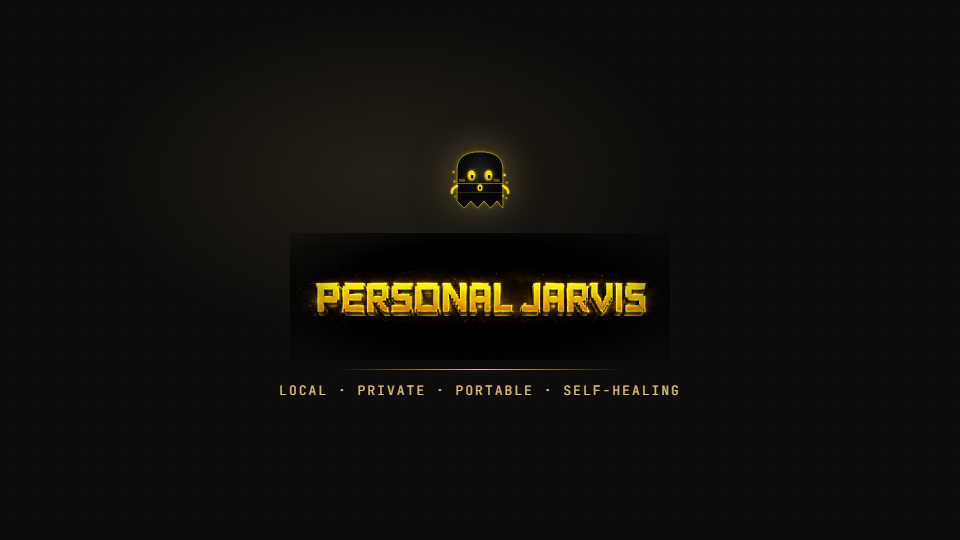
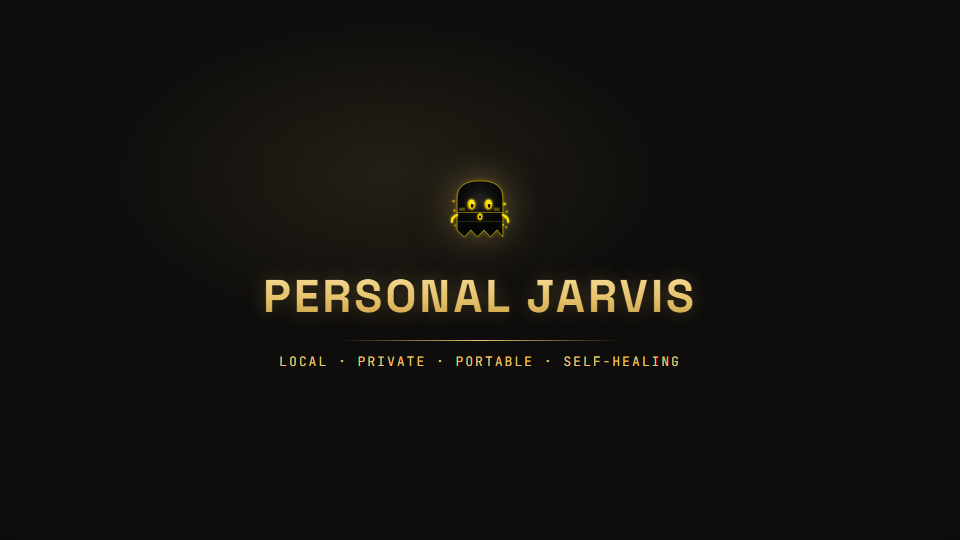
chore: auto-save WIP via Claude stop-hook safety net (2026-07-01 14:08)

diff --git a/wiki-video/src/scenes/S6Outro.tsx b/wiki-video/src/scenes/S6Outro.tsx
@@ -1,6 +1,6 @@
-import { AbsoluteFill, Img, spring, staticFile, useCurrentFrame, useVideoConfig } from "remotion";
+import { AbsoluteFill, spring, useCurrentFrame, useVideoConfig } from "remotion";
 import { Ghost, GoldRule } from "../components/Ghost";
-import { COLORS, EASE, lerp, MONO } from "../theme";
+import { COLORS, DISPLAY, EASE, lerp, MONO } from "../theme";
 
 export const S6Outro: React.FC = () => {
   const frame = useCurrentFrame();
@@ -23,23 +23,27 @@ export const S6Outro: React.FC = () => {
         <Ghost size={168} glow={34} />
       </div>
 
-      {/* real gold wordmark — screen blend drops its black bg onto the charcoal stage */}
-      <Img
-        src={staticFile("wordmark.png")}
+      {/* gold wordmark in the brand display font (Space Grotesk) — crisp, no
+          raster seam, blends cleanly onto the charcoal stage. */}
+      <div
         style={{
-          width: 760,
-          height: "auto",
+          fontFamily: DISPLAY,
+          fontWeight: 700,
+          fontSize: 92,
+          letterSpacing: 6,
+          textTransform: "uppercase",
           opacity: markO,
           transform: `translateY(${markY}px)`,
-          // screen drops the banner's black field onto the charcoal stage; the
-          // radial mask feathers the outer glow box so there is no visible seam.
-          mixBlendMode: "screen",
-          maskImage:
-            "radial-gradient(72% 82% at 50% 50%, #000 52%, transparent 100%)",
-          WebkitMaskImage:
-            "radial-gradient(72% 82% at 50% 50%, #000 52%, transparent 100%)",
+          backgroundImage: `linear-gradient(180deg, #ffe9b0 0%, ${COLORS.gold} 52%, #b98a2e 100%)`,
+          WebkitBackgroundClip: "text",
+          backgroundClip: "text",
+          color: "transparent",
+          textShadow: "0 0 34px rgba(231,196,110,0.28)",
+          filter: "drop-shadow(0 2px 10px rgba(0,0,0,0.5))",
         }}
-      />
+      >
+        Personal Jarvis
+      </div>
 
       <div style={{ marginTop: 18, marginBottom: 22 }}>
         <GoldRule width={ruleW} />

diff --git a/wiki-video/src/components/SceneWrap.tsx b/wiki-video/src/components/SceneWrap.tsx
@@ -15,10 +15,12 @@ export const SceneWrap: React.FC<{
   children: React.ReactNode;
 }> = ({ durationInFrames, fadeIn = 18, fadeOut = 20, pad = true, children }) => {
   const frame = useCurrentFrame();
-  const opacity = Math.min(
-    lerp(frame, [0, fadeIn], [0, 1], EASE.outExpo),
-    lerp(frame, [durationInFrames - fadeOut, durationInFrames], [1, 0], EASE.inCubic),
-  );
+  const inO = lerp(frame, [0, fadeIn], [0, 1], EASE.outExpo);
+  const outO =
+    fadeOut > 0
+      ? lerp(frame, [durationInFrames - fadeOut, durationInFrames], [1, 0], EASE.inCubic)
+      : 1;
+  const opacity = Math.min(inO, outO);
   const y = lerp(frame, [0, fadeIn], [16, 0], EASE.outExpo);
 
   return (

diff --git a/wiki-video/src/WikiVideo.tsx b/wiki-video/src/WikiVideo.tsx
@@ -38,7 +38,11 @@ export const WikiVideo: React.FC = () => {
         const dur = slot.dur + (isLast ? 0 : OVERLAP);
         return (
           <Sequence key={s.key} from={slot.from} durationInFrames={dur}>
-            <SceneWrap durationInFrames={dur} pad={s.pad ?? true}>
+            <SceneWrap
+              durationInFrames={dur}
+              pad={s.pad ?? true}
+              fadeOut={isLast ? 0 : undefined}
+            >
               {s.comp}
             </SceneWrap>
           </Sequence>

diff --git a/jarvis/ui/jarvisbar/overlay.py b/jarvis/ui/jarvisbar/overlay.py
@@ -91,48 +91,6 @@ def _primary_work_area() -> tuple[int, int, int, int] | None:
         return None
 
 
-def _pin_bar_window_unaware() -> None:
-    """Pin the bar's Tk window to per-window DPI-UNAWARE (Windows only).
-
-    The bar must keep the exact size + look it has always had: a small pill that
-    Windows bitmap-UPSCALES to a comfortable physical size on a scaled display.
-    That upscaling only happens for a DPI-UNAWARE window. The recurring bug: the
-    process is made DPI-AWARE — by ``ensure_dpi_awareness`` above and, at runtime,
-    by pywebview's ``SetProcessDPIAware`` inside ``webview.start()`` — and an
-    awareness change strips the upscaling off any window that merely INHERITS the
-    process default. The already-visible bar then snaps to raw pixels (~2/3 size)
-    and jumps position mid-session; only a restart cures it.
-
-    Giving THIS thread an EXPLICIT ``DPI_AWARENESS_CONTEXT_UNAWARE`` before
-    ``tk.Tk()`` bakes that context into the bar window for its lifetime. Because
-    the process is already aware (``ensure_dpi_awareness`` ran first), the
-    window's context genuinely DIFFERS from the process, so the upscaling is
-    pinned: a later process-wide flip can no longer strip it. Verified live — a
-    107x48 window pinned this way sits at 161x72 physical and STAYS 161x72 across
-    ``SetProcessDPIAware``. Geometry and pointer events both stay in the one
-    virtualized space, so dragging stays glued to the cursor. The renderer is not
-    touched: the bar looks identical, it just stops shrinking.
-
-    No-op off Windows, under pytest (never mutate the test runner's thread), and
-    on any Windows without the per-thread API; never blocks the bar on failure.
-    """
-    if sys.platform != "win32":
-        return
-    if "pytest" in sys.modules:  # don't mutate the test runner thread's DPI context
-        return
-    try:
-        import ctypes
-        from ctypes import wintypes
-
-        user32 = ctypes.windll.user32
-        user32.SetThreadDpiAwarenessContext.restype = wintypes.HANDLE
-        user32.SetThreadDpiAwarenessContext.argtypes = [wintypes.HANDLE]
-        # DPI_AWARENESS_CONTEXT_UNAWARE is the sentinel handle value ((HANDLE)-1).
-        user32.SetThreadDpiAwarenessContext(wintypes.HANDLE(-1))
-    except Exception:  # noqa: BLE001 — never block the bar on a DPI hiccup
-        log.debug("jarvisbar DPI unaware-pin skipped", exc_info=True)
-
-
 class JarvisBarOverlay:
     def __init__(
         self,
@@ -277,30 +235,22 @@ class JarvisBarOverlay:
 
         from PIL import ImageTk  # noqa: F401 — fail fast here if Pillow missing
 
-        # DPI handling — two steps that TOGETHER keep the bar at its normal size
-        # and stop it shrinking/jumping mid-session, WITHOUT changing how it looks:
-        #
-        # 1. Make the PROCESS DPI-aware. The bar boots in its own thread, often
-        #    before anything else claims awareness; doing it here means pywebview's
-        #    later ``SetProcessDPIAware`` (inside ``webview.start()``) is a no-op
-        #    rather than a RUNTIME awareness flip. Idempotent, no-op off Windows.
-        # 2. Pin THIS thread's window to per-window UNAWARE (``_pin_bar_window_``
-        #    ``unaware``). With the process aware but the WINDOW explicitly
-        #    unaware, Windows bitmap-upscales the small pill to its normal physical
-        #    size — the exact look it has always had, renderer untouched — and,
-        #    because the window's context differs from the aware process, that
-        #    upscaling is PINNED: a later process-wide flip can no longer strip it.
-        #    This is the fix for the recurring "bar shrank to ~2/3 and jumped, only
-        #    a restart helps" bug. Geometry and pointer events stay in one
-        #    virtualized space, so only the user drags it (and it follows the
-        #    cursor); it never repositions itself.
+        # Per-monitor DPI awareness MUST be set before THIS surface's Tk root is
+        # created — exactly like the orb (ui/orb/overlay.py). Without it, on a
+        # scaled display (e.g. 150%) the window's geometry coordinate space and
+        # the pointer-event space (``event.x_root``) drift apart, so dragging the
+        # bar makes it run AWAY from the cursor toward the bottom-right and become
+        # uncontrollable (the HiDPI "drag-teleport"). The bar boots in its own
+        # thread, often before any other code has set process DPI awareness, so
+        # it must assert it here itself. ``ensure_dpi_awareness`` is idempotent
+        # and a no-op off Windows, so this is safe even when the process is
+        # already aware.
         try:
             from jarvis.core.win32_dpi import ensure_dpi_awareness
 
             ensure_dpi_awareness()
         except Exception:  # noqa: BLE001 — never block the bar on a DPI hiccup
             log.debug("jarvisbar DPI-awareness setup skipped", exc_info=True)
-        _pin_bar_window_unaware()
 
         self._tk_thread_id = threading.get_ident()
         self._renderer = renderer.JarvisBarRenderer(accent=self._accent)

diff --git a/tests/unit/ui/jarvisbar/test_dpi_awareness.py b/tests/unit/ui/jarvisbar/test_dpi_awareness.py
@@ -1,23 +1,16 @@
-"""The JarvisBar fixes its window DPI handling BEFORE creating the Tk root.
+"""The JarvisBar makes its Tk window per-monitor DPI aware BEFORE creating it.
 
-Two ordered steps in ``start()``, both BEFORE ``tk.Tk()``:
-
-1. ``ensure_dpi_awareness()`` makes the PROCESS DPI-aware, so pywebview's later
-   ``SetProcessDPIAware`` (in ``webview.start()``) is a no-op instead of a
-   runtime awareness flip.
-2. ``_pin_bar_window_unaware()`` pins THIS thread's window to per-window
-   UNAWARE, so Windows keeps bitmap-upscaling the small pill to its normal
-   physical size AND that upscaling is pinned against any later flip.
-
-Together they stop the recurring "bar shrank to ~2/3 and jumped mid-session,
-only a restart helps" bug WITHOUT changing how the bar looks. This test locks in
-that both run, in order, before the Tk root exists (a consolidate-revert guard).
+Regression (HiDPI "drag-teleport"): the bar's Tk root used to be created without
+``ensure_dpi_awareness()`` — the orb sets it (ui/orb/overlay.py), the bar did
+not. On a scaled display (e.g. 150%) the window's geometry coordinate space and
+the pointer-event space then drift apart, so dragging the bar makes it run AWAY
+from the cursor toward the bottom-right and become uncontrollable. The fix
+mirrors the orb: assert DPI awareness in ``start()`` BEFORE ``tk.Tk()``.
 """
 from __future__ import annotations
 
 import tkinter
 
-import jarvis.ui.jarvisbar.overlay as overlay_mod
 from jarvis.ui.jarvisbar.overlay import JarvisBarOverlay
 
 
@@ -48,15 +41,12 @@ class _FakeCanvas:
     def bind(self, *a, **k) -> None: ...
 
 
-def test_start_fixes_dpi_before_creating_tk_root(monkeypatch) -> None:
+def test_start_sets_dpi_awareness_before_creating_tk_root(monkeypatch) -> None:
     order: list[str] = []
 
     monkeypatch.setattr(
         "jarvis.core.win32_dpi.ensure_dpi_awareness",
         lambda: order.append("dpi"),
-    )
-    monkeypatch.setattr(
-        overlay_mod, "_pin_bar_window_unaware", lambda: order.append("pin")
     )
 
     def _fake_tk(*_a, **_k) -> _FakeTkRoot:
@@ -75,12 +65,9 @@ def test_start_fixes_dpi_before_creating_tk_root(monkeypatch) -> None:
 
     bar.start()
 
-    assert "dpi" in order, "start() must make the process DPI-aware"
-    assert "pin" in order, "start() must pin the bar window UNAWARE (anti-shrink)"
+    assert "dpi" in order, "start() must set DPI awareness"
     assert "tk" in order, "start() must create the Tk root"
-    # process-aware THEN window-unaware-pin THEN the Tk window: the pin only holds
-    # because the process is already aware, and both must precede tk.Tk().
-    assert order.index("dpi") < order.index("pin") < order.index("tk"), (
-        "order must be ensure_dpi_awareness → pin-unaware → tk.Tk() "
-        "(the bar-shrink/jump fix)"
+    assert order.index("dpi") < order.index("tk"), (
+        "DPI awareness must be set BEFORE the Tk root is created "
+        "(HiDPI drag-teleport fix)"
     )
